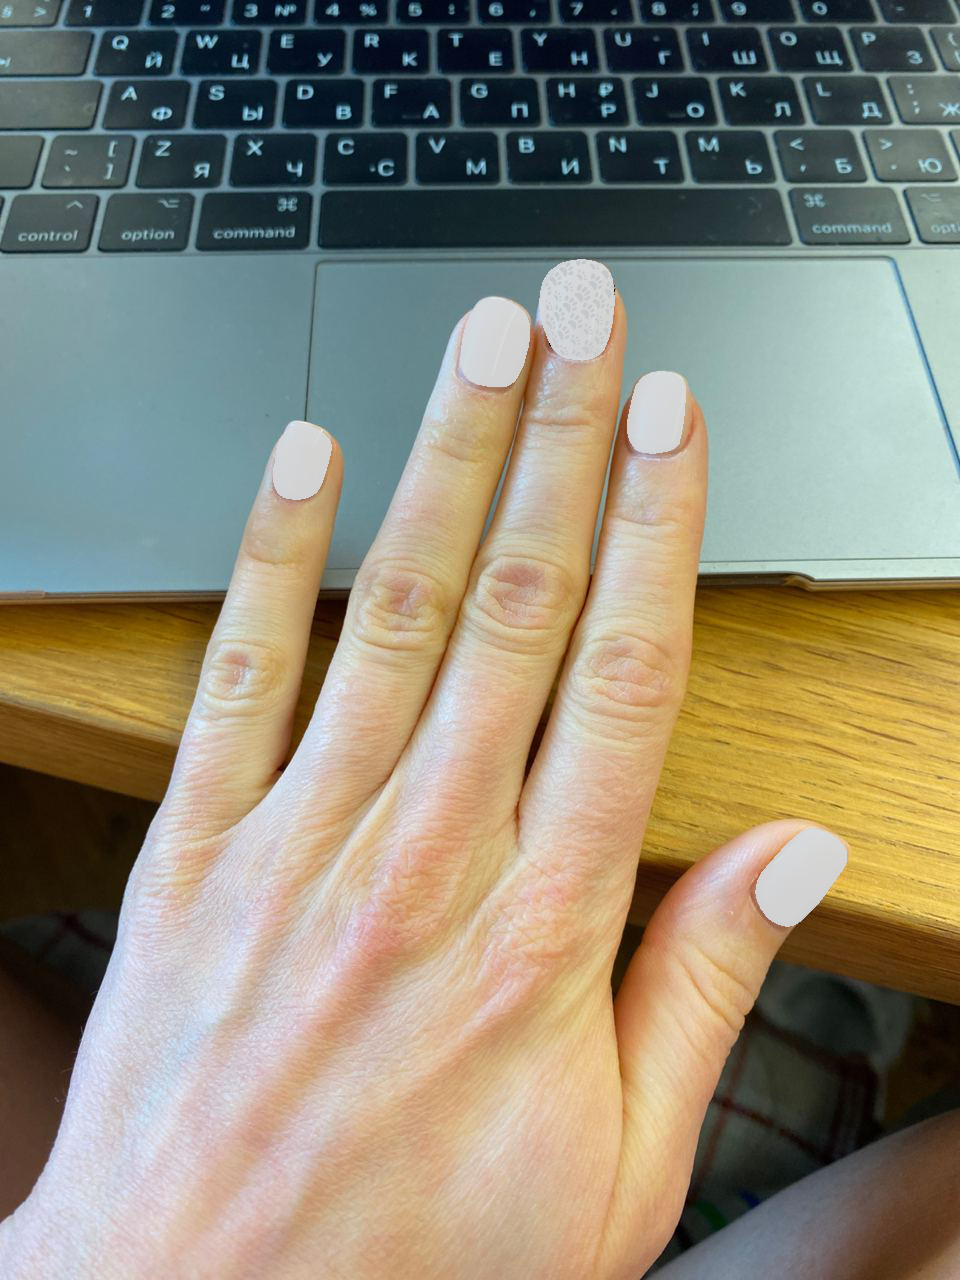
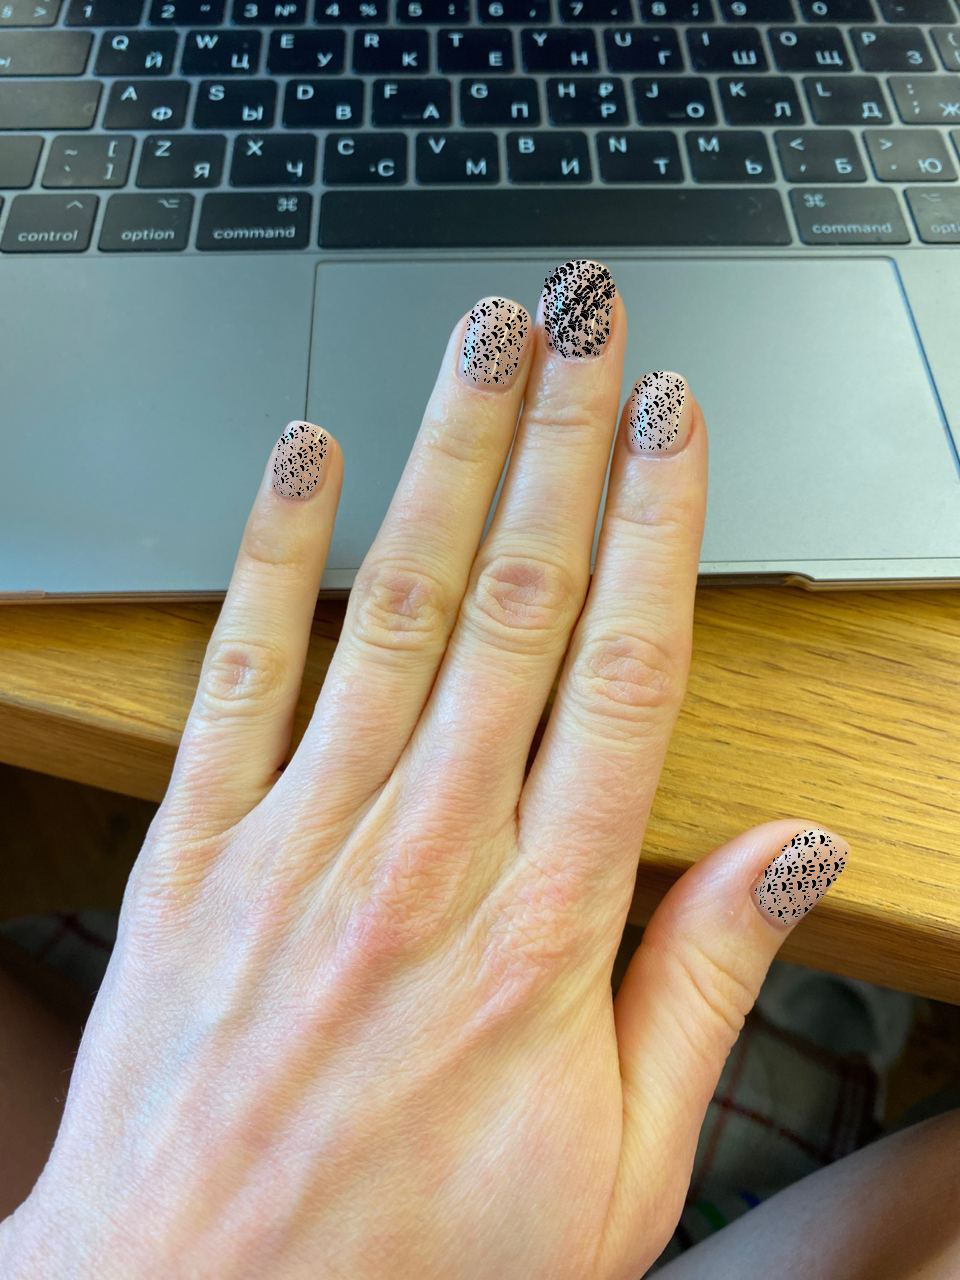
added the function to equip the stamping

diff --git a/model/equip_stamping.py b/model/equip_stamping.py
@@ -1,0 +1,175 @@
+'''
+
+Trying to place the template of the nail to our detected mask
+
+'''
+
+import cv2
+import cv2 as cv
+import numpy as np
+from PIL import Image
+import math
+import base64
+import requests
+
+def equip_template(raw_path,template_path):
+
+    path_orig_photo = "model/orig/" + raw_path
+    path_mask_photo = "model/mask/" + raw_path
+    template_path = "model/stamping/" + template_path
+
+    #Read template image
+    template = Image.open(template_path)
+
+    # Read color image
+
+    img_pil = Image.open(path_orig_photo)
+    img_array = np.array(img_pil)
+    # Read mask; OpenCV can't handle indexed images, so we need Pillow here
+    # for that, see also: https://stackoverflow.com/q/59839709/11089932
+    mask = np.array(Image.open(path_mask_photo))
+    mask[mask < 254] = 0
+    mask[mask > 0] = 1
+
+
+    mask = cv2.cvtColor(mask, cv2.COLOR_BGR2GRAY)
+
+    cnts, hierarchy = cv2.findContours(mask.copy(), cv2.RETR_TREE, cv2.CHAIN_APPROX_SIMPLE)
+    mask = Image.open(path_mask_photo)
+
+    width, height = mask.size
+
+    for c in cnts:
+
+        rows, cols = img_array.shape[:2]
+        [vx, vy, x, y] = cv.fitLine(c, cv.DIST_L2, 0, 0.01, 0.01)
+        lefty = int((-x * vy / vx) + y)
+        righty = int(((cols - x) * vy / vx) + y)
+        cv.line(img_array, (cols - 1, righty), (0, lefty), (0, 255, 0), 2)
+
+
+        ## create rotated rectangle
+        rect = cv2.minAreaRect(c)
+        h, w = np.int0(rect[1])
+        theta = np.int0(rect[2])
+
+        w_b = w
+        h_b = h
+
+
+        box = cv2.boxPoints(rect)
+        box = np.int0(box)
+
+        cv.drawContours(img_array, [box], 0, (0, 0, 255), 2)
+
+        box = sorted(box, key=lambda k: [k[1], k[0]])
+        x, y = box[0]
+
+
+
+        #image = cv2.circle(img_array, (x,y), 10, color=(255, 255, 255), thickness=-10)
+
+        #cv2.imshow('image', image)
+        #cv2.waitKey(0)
+        #cv2.destroyAllWindows()
+
+        #theta = theta - 90
+        theta_photo = 0
+
+        if theta != 90:
+            theta_photo = theta
+            if theta > 45:
+                theta_photo = 90 - theta
+            length = w * math.cos(math.radians(90- abs(theta)))
+            x = x-length
+
+            length_2 = h * math.cos(math.radians(abs(theta)))
+            w_b = length + length_2
+
+            length = w * math.sin(math.radians(90 - abs(theta)))
+            length_2 = h * math.cos(math.radians(90 -abs(theta)))
+            h_b = length + length_2
+
+
+            # Start coordinate, here (100, 50)
+            # represents the top left corner of rectangle
+            start_point = (int(x), int(y))
+
+
+            # Ending coordinate, here (125, 80)
+            # represents the bottom right corner of rectangle
+            end_point = (int(x+w_b), int(y+h_b))
+
+            # Black color in BGR
+            color = (0, 0, 0)
+
+            # Line thickness of -1 px
+            # Thickness of -1 will fill the entire shape
+            thickness = 0
+
+            # Using cv2.rectangle() method
+            # Draw a rectangle of black color of thickness -1 px
+            image = cv2.rectangle(img_array, start_point, end_point, color, thickness)
+            #cv2.rectangle(image, (x, y), (x + w, y + h), (0, 255, 0), 2)
+
+
+        if h<w:
+            theta_photo = -theta_photo
+
+
+
+        im1 = template.rotate(theta_photo, Image.NEAREST, expand=1)
+        #im1.show()
+
+        template_resized = im1.resize((int(w_b), int(h_b)), Image.BICUBIC)
+
+        #im_mask = template_resized
+        #im_mask = im_mask.convert("L")
+#
+        #pixdata = im_mask.load()
+        #width, height = im_mask.size
+        #for y in range(height):
+        #    for x in range(width):
+        #        print(pixdata[x, y])
+        #        if pixdata[x, y] > 0:
+        #            pixdata[x, y] = 200
+
+
+        mask.paste(template_resized, (int(x),int(y)), mask=template_resized)
+        #img_pil.show()
+
+    cutout = Image.open(path_mask_photo)
+    pixdata = cutout.load()
+
+    for y in range(height):
+        for x in range(width):
+            #make the background transparent
+            if pixdata[x, y] == (0, 0, 0, 0):
+                pixdata[x, y] = (0, 0, 0, 255)
+
+    mask.paste(cutout,(0,0),mask=cutout)
+
+    pixdata = mask.load()
+
+    for y in range(height):
+        for x in range(width):
+            #make the background transparent
+            if pixdata[x, y] == (0, 0, 0, 255):
+                pixdata[x, y] = (0, 0, 0, 0)
+
+    img_pil.paste(mask,(0,0), mask=mask)
+
+    img_pil.save("nail.png","PNG")
+    with open("nail.png", "rb") as file:
+        url = "https://api.imgbb.com/1/upload"
+        payload = {
+            "key": '25502214673ff70e70aacc9157b3084e',
+            "image": base64.b64encode(file.read()),
+        }
+        res = requests.post(url, payload)
+
+    # You may want to further format the prediction to make it more
+    # human readable
+    return res.json()['data']['url']
+
+

diff --git a/app.py b/app.py
@@ -1,6 +1,6 @@
 from flask import Flask, request
 
-from model import predict, equip_color
+from model import predict, equip_color, equip_stamping
 #from model import equip
 
 import tensorflow
@@ -32,6 +32,17 @@ def equip():
     else:
         # model.predict.predict returns a dictionary
         prediction = equip_color.equip(name, template_number)
+    return str(prediction)
+
+@app.route('/equip_stamp', methods=['GET', 'POST'])
+def equip_stamp():
+    name = request.form.get('data')
+    stamping_name = request.form.get('stamping')
+    if name == None:
+        return 'Got None'
+    else:
+        # model.predict.predict returns a dictionary
+        prediction = equip_stamping.equip_template(name, stamping_name)
     return str(prediction)
 
 if __name__ == "__main__":

diff --git a/model/predict.py b/model/predict.py
@@ -113,7 +113,7 @@ def create_mask(raw_image):
 
             #make mask fully untransparent
             if pixdata[x, y][3] >10:
-                pixdata[x, y] = (pixdata[x, y][0], pixdata[x, y][1], pixdata[x, y][2], 255)
+                pixdata[x, y] = (pixdata[x, y][0], pixdata[x, y][1], pixdata[x, y][2], 0)
 
 
 
